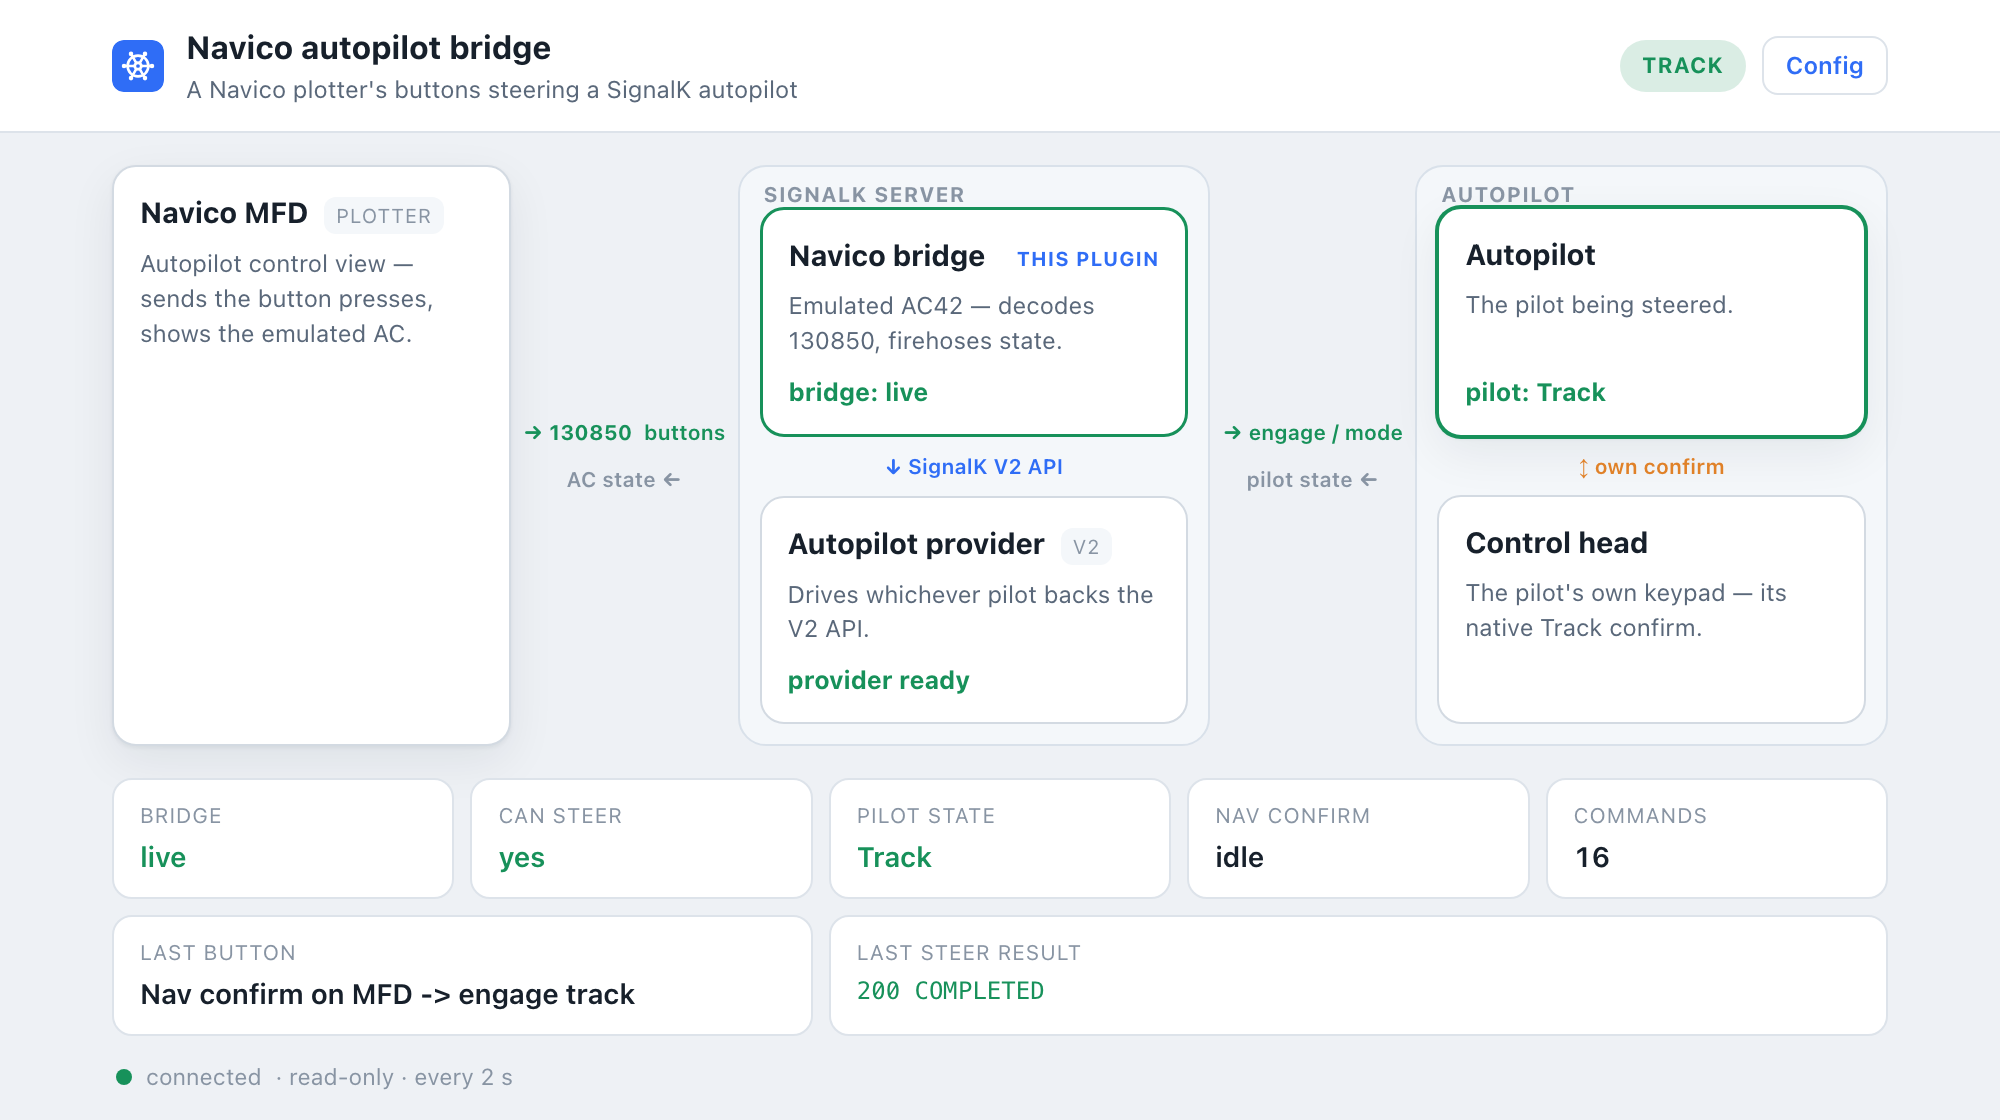
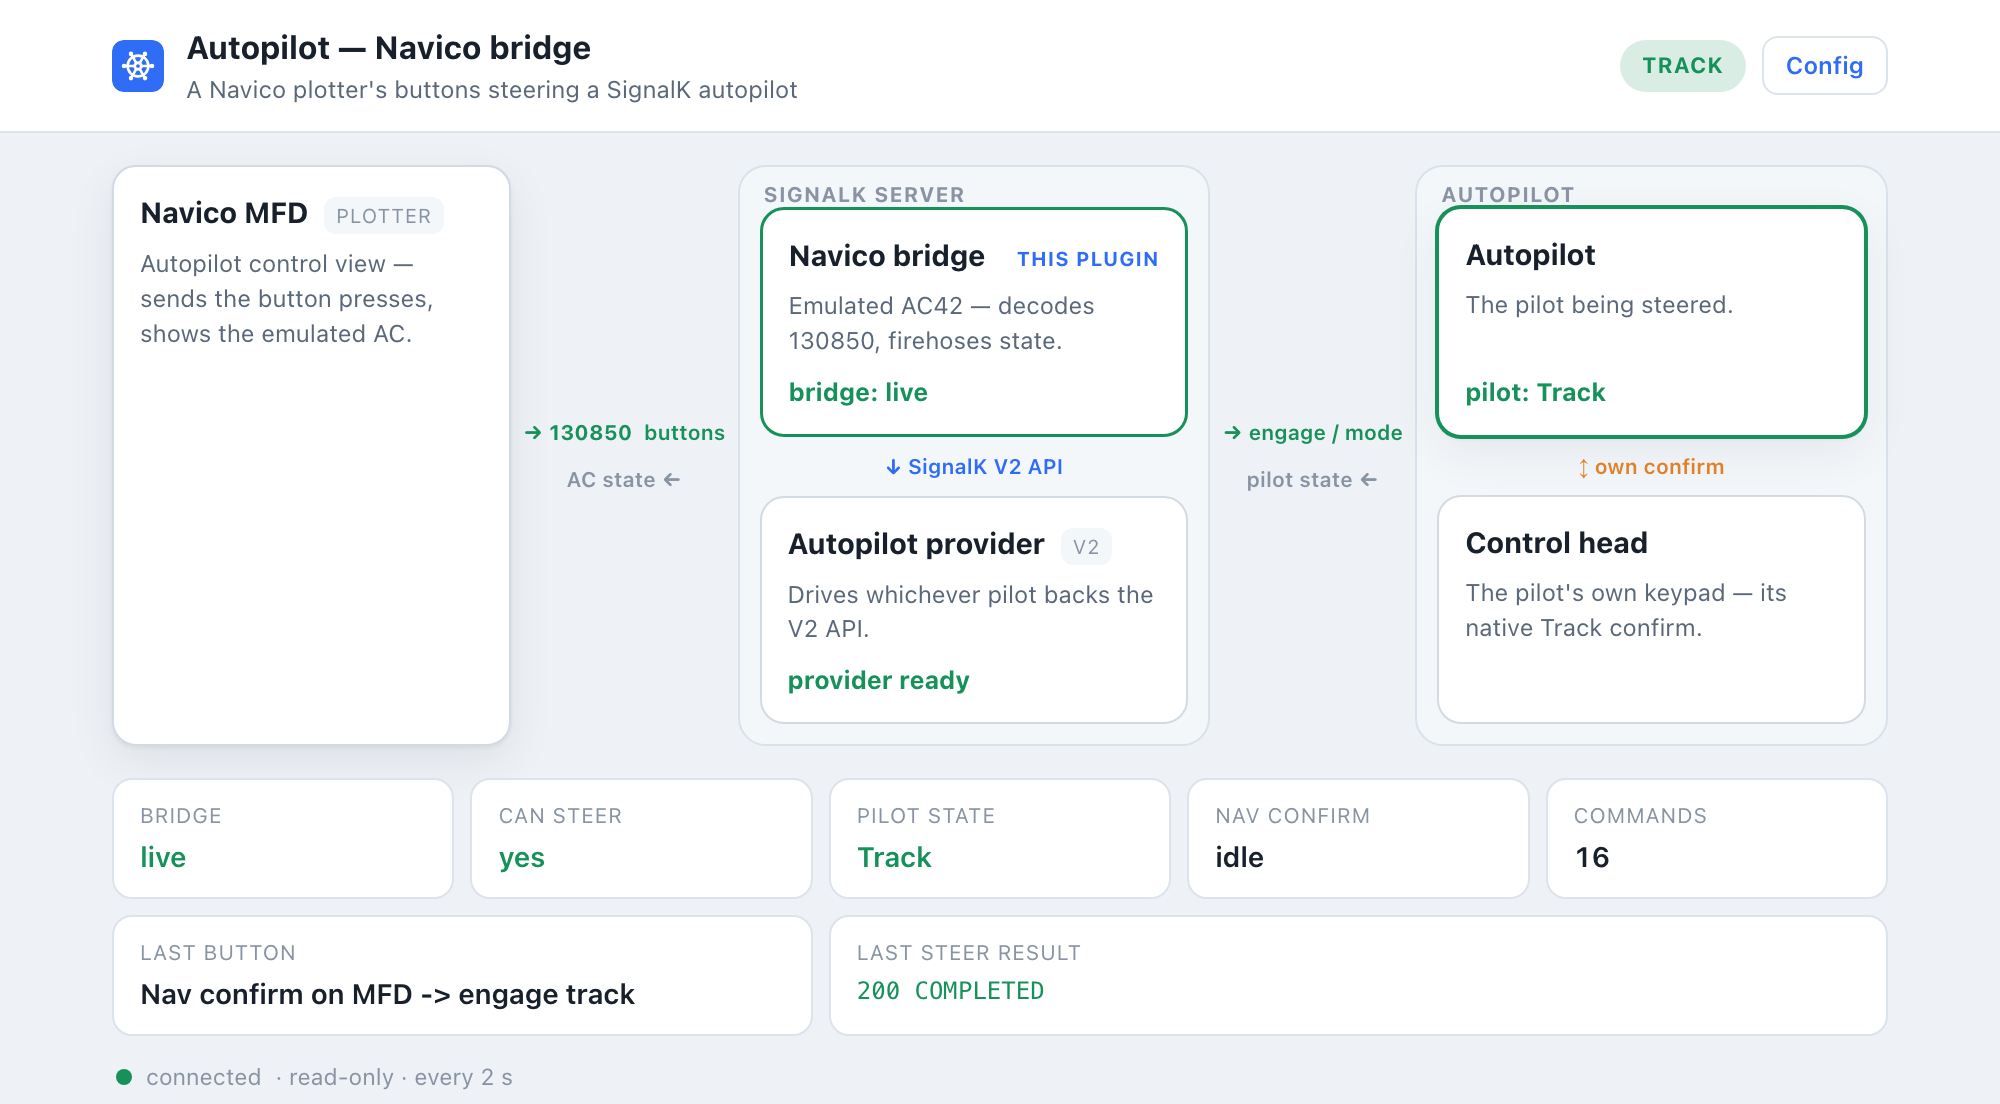
docs: fix status webapp header name + refresh screenshot
Header showed the old 'Navico autopilot bridge'; both the <title> and the
<h1> now read 'Autopilot — Navico bridge', and screenshot.png is re-rendered
to match. For the next release.

Claude-Session: https://claude.ai/code/session_01GsCzidaSVjvX2dqLFywwdR

diff --git a/public/index.html b/public/index.html
@@ -3,7 +3,7 @@
 <head>
   <meta charset="utf-8">
   <meta name="viewport" content="width=device-width, initial-scale=1">
-  <title>Navico autopilot bridge</title>
+  <title>Autopilot — Navico bridge</title>
   <link rel="icon" href="favicon.svg" type="image/svg+xml">
   <link rel="stylesheet" href="style.css">
 </head>
@@ -13,7 +13,7 @@
       <div class="brand">
         <img class="logo" src="favicon.svg" alt="" width="26" height="26">
         <div>
-          <h1>Navico autopilot bridge</h1>
+          <h1>Autopilot — Navico bridge</h1>
           <p class="sub">A Navico plotter's buttons steering a SignalK autopilot</p>
         </div>
       </div>
